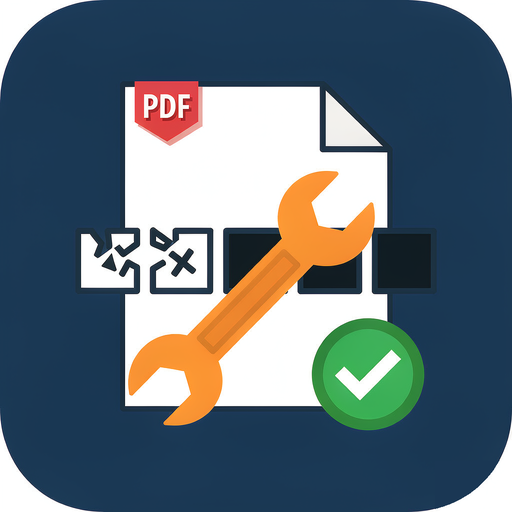
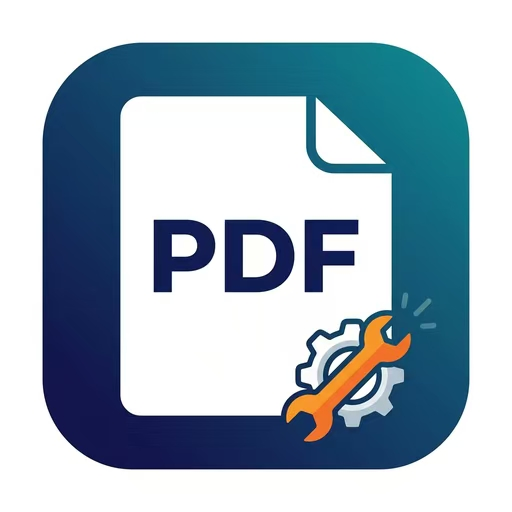
feat: v1.0.2 — locate 增加 .workbuddy 路径、描述补字体发现说明、更新图标

diff --git a/scripts/locate.py b/scripts/locate.py
@@ -65,12 +65,13 @@ def candidates():
     out.append(SELF_ROOT)                                  # 0. 自身位置
     h = _home()
     # 2. 各平台/各客户端的常见约定
-    for rel in ('skills', '.skills', '.claude/skills', '.codebuddy/skills',
-                '.config/ima/skills', 'ima/skills', '.codex/skills',
-                'AppData/Roaming/ima/skills', 'AppData/Roaming/codebuddy/skills'):
+    for rel in ('skills', '.skills', '.claude/skills', '.workbuddy/skills',
+                '.codebuddy/skills', '.config/ima/skills', 'ima/skills', '.codex/skills',
+                'AppData/Roaming/ima/skills', 'AppData/Roaming/workbuddy/skills',
+                'AppData/Roaming/codebuddy/skills'):
         out.append(os.path.join(h, rel.replace('/', os.sep), SKILL_NAME))
     # 2b. 旧目录名（兼容早期安装）
-    for rel in ('skills', '.skills', '.claude/skills', '.codebuddy/skills'):
+    for rel in ('skills', '.skills', '.claude/skills', '.workbuddy/skills', '.codebuddy/skills'):
         for legacy in LEGACY_NAMES:
             out.append(os.path.join(h, rel.replace('/', os.sep), legacy))
     # 3. 项目级安装
@@ -83,7 +84,7 @@ def candidates():
 def search(limit_depth=4):
     """兜底搜索：用户目录下按目录名找（限制深度，避免扫盘）。"""
     roots = [os.path.join(_home(), x) for x in ('skills', '.skills', '.claude',
-                                                '.codebuddy', '.config')]
+                                                '.workbuddy', '.codebuddy', '.config')]
     for root in roots:
         if not os.path.isdir(root):
             continue

diff --git a/SKILL.md b/SKILL.md
@@ -2,7 +2,7 @@
 name: pdf-font-fixer
 display_name: pdf字体乱码修复神器
 display_name_en: PDF Fonts Fixer
-description: PDF 中文字体乱码的体检与修复工具。导出前检测字体风险，交付前逐字符审计并做交付门禁，也能直接修复已有 PDF 的方块字、缺字、文字消失。支持 PDF 字体检测、字体修复、PPT 转 PDF 递进导出、缺字兜底。当用户提到 PDF 乱码、方块字、问号、字体缺失、打印异常、手机预览异常、PPT 导出 PDF、PDF 字体检查时使用。
+description: PDF 中文字体乱码的体检与修复工具。导出前检测字体风险，交付前逐字符审计并做交付门禁，也能直接修复已有 PDF 的方块字、缺字、文字消失。支持 PDF 字体检测、字体修复、PPT 转 PDF 递进导出、缺字兜底；不内嵌任何字体，自动发现本机可用的 TrueType 中文字体。当用户提到 PDF 乱码、方块字、问号、字体缺失、打印异常、手机预览异常、PPT 导出 PDF、PDF 字体检查时使用。
 description_zh: 专治「本机看着正常、别人打开全是方块」的 PDF 字体问题。一条命令完成字体体检、逐字符审计与交付门禁，也能直接修复已有 PDF 的乱码、缺字与文字消失，无需重做排版。
 description_en: Diagnose and repair broken Chinese fonts in PDFs. Detect risky font outlines before delivery, audit every glyph, gate releases, and fix existing PDFs with tofu boxes, missing glyphs, or dropped text — without redoing the layout.
 examples_zh:
@@ -13,7 +13,7 @@ examples_en:
   - "Check whether this PDF will display Chinese correctly on other devices"
   - "This PDF shows tofu boxes on another computer — fix it for me"
   - "The PDF exported from my slides has missing text; give me a version that renders everywhere"
-version: 1.0.1
+version: 1.0.2
 author: "多裴港格"
 ---
 
@@ -118,7 +118,7 @@ python3 $S/pptx.py 演示.pptx --keep-copy   # 只接受第 1 步（保留复制
 
 # ⑥ 字体工具
 python3 $S/fontkit.py list                 # 本机中文 TrueType
-python3 $S/fontkit.py find "Noto Sans CJK SC"
+python3 $S/fontkit.py find "Noto Sans SC"
 python3 $S/fontkit.py to-ttf x.otf -o x.ttf --text "用到的字"    # OTF→TTF（先子集，快）
 python3 $S/fontkit.py lint x.ttf --text "文本"                   # 查缺字（豆腐块预警）
 
@@ -173,13 +173,14 @@ python3 $S/autofallback.py --from-json cards.json --main <主字体> -o fb.ttf -
 |---|---|
 | 0 | **脚本自身位置**（`__file__` 往上两级）—— 能跑脚本就说明找对了 |
 | 1 | 环境变量 `PDF_FONT_FIXER` |
-| 2 | 多平台约定目录：`~/.skills`、`~/.claude/skills`、`~/.codebuddy/skills`、`~/.config/ima/skills`、`AppData/Roaming/*`、项目内 `./skills` |
+| 2 | 多平台约定目录：`~/.skills`、`~/.claude/skills`、`~/.workbuddy/skills`、`~/.codebuddy/skills`、`~/.config/ima/skills`、`AppData/Roaming/*`、项目内 `./skills` |
 | 3 | 用户目录限深搜索（≤4 层） |
 
 调用方（其它 skill）一行候选链，跨 bash/zsh：
 
 ```bash
 for c in "$PDF_FONT_FIXER" "$HOME/.skills/pdf-fonts-fixer" "$HOME/.claude/skills/pdf-fonts-fixer" \
+         "$HOME/.workbuddy/skills/pdf-fonts-fixer" \
          "$HOME/.codebuddy/skills/pdf-fonts-fixer" "./skills/pdf-fonts-fixer"; do
   [ -f "$c/scripts/gate.py" ] && FIXER="$c" && break
 done
